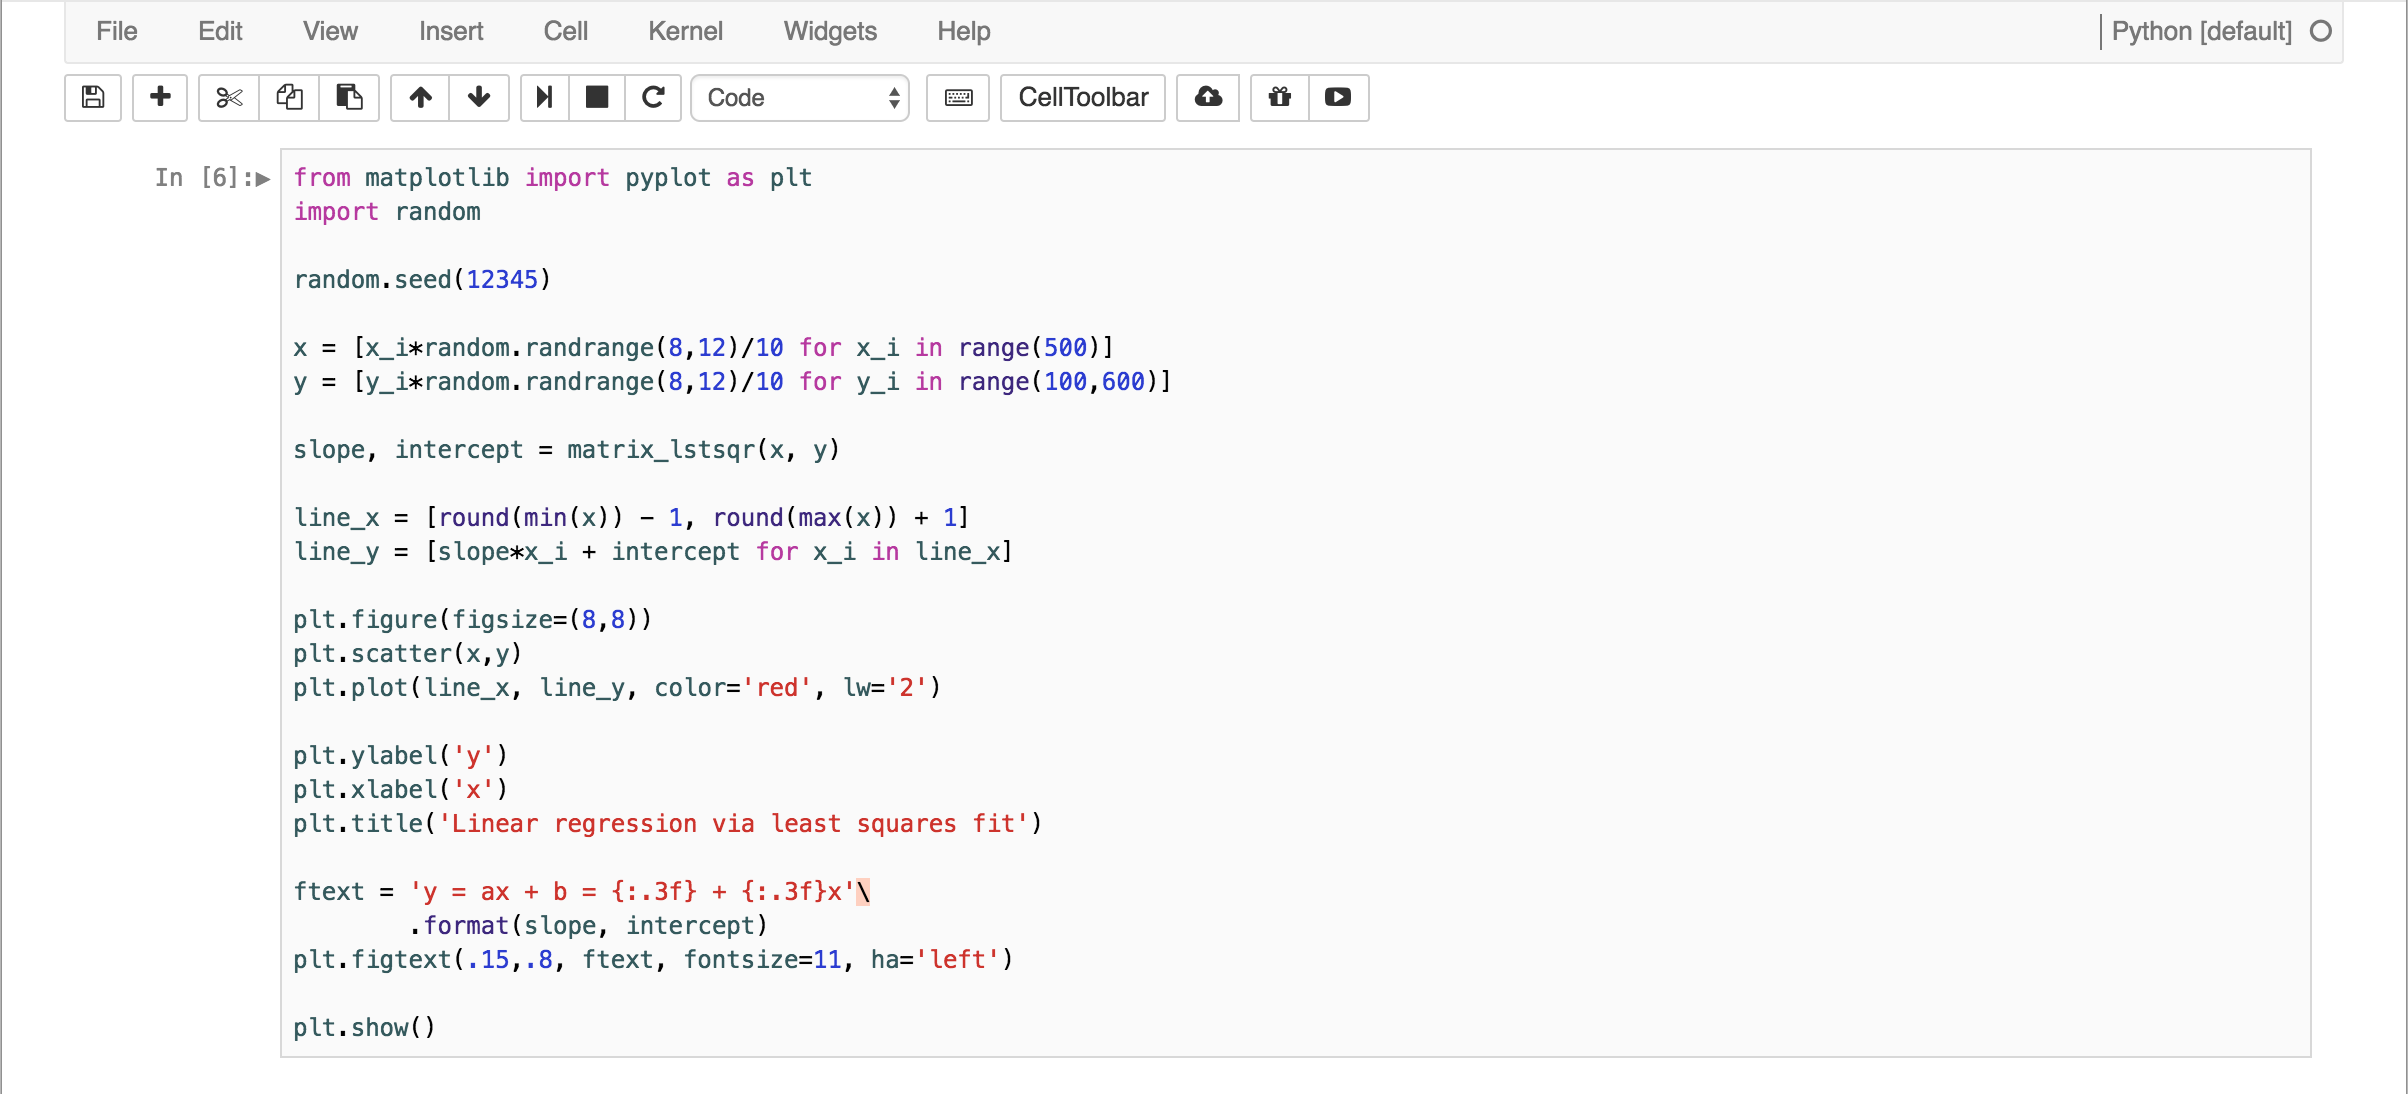
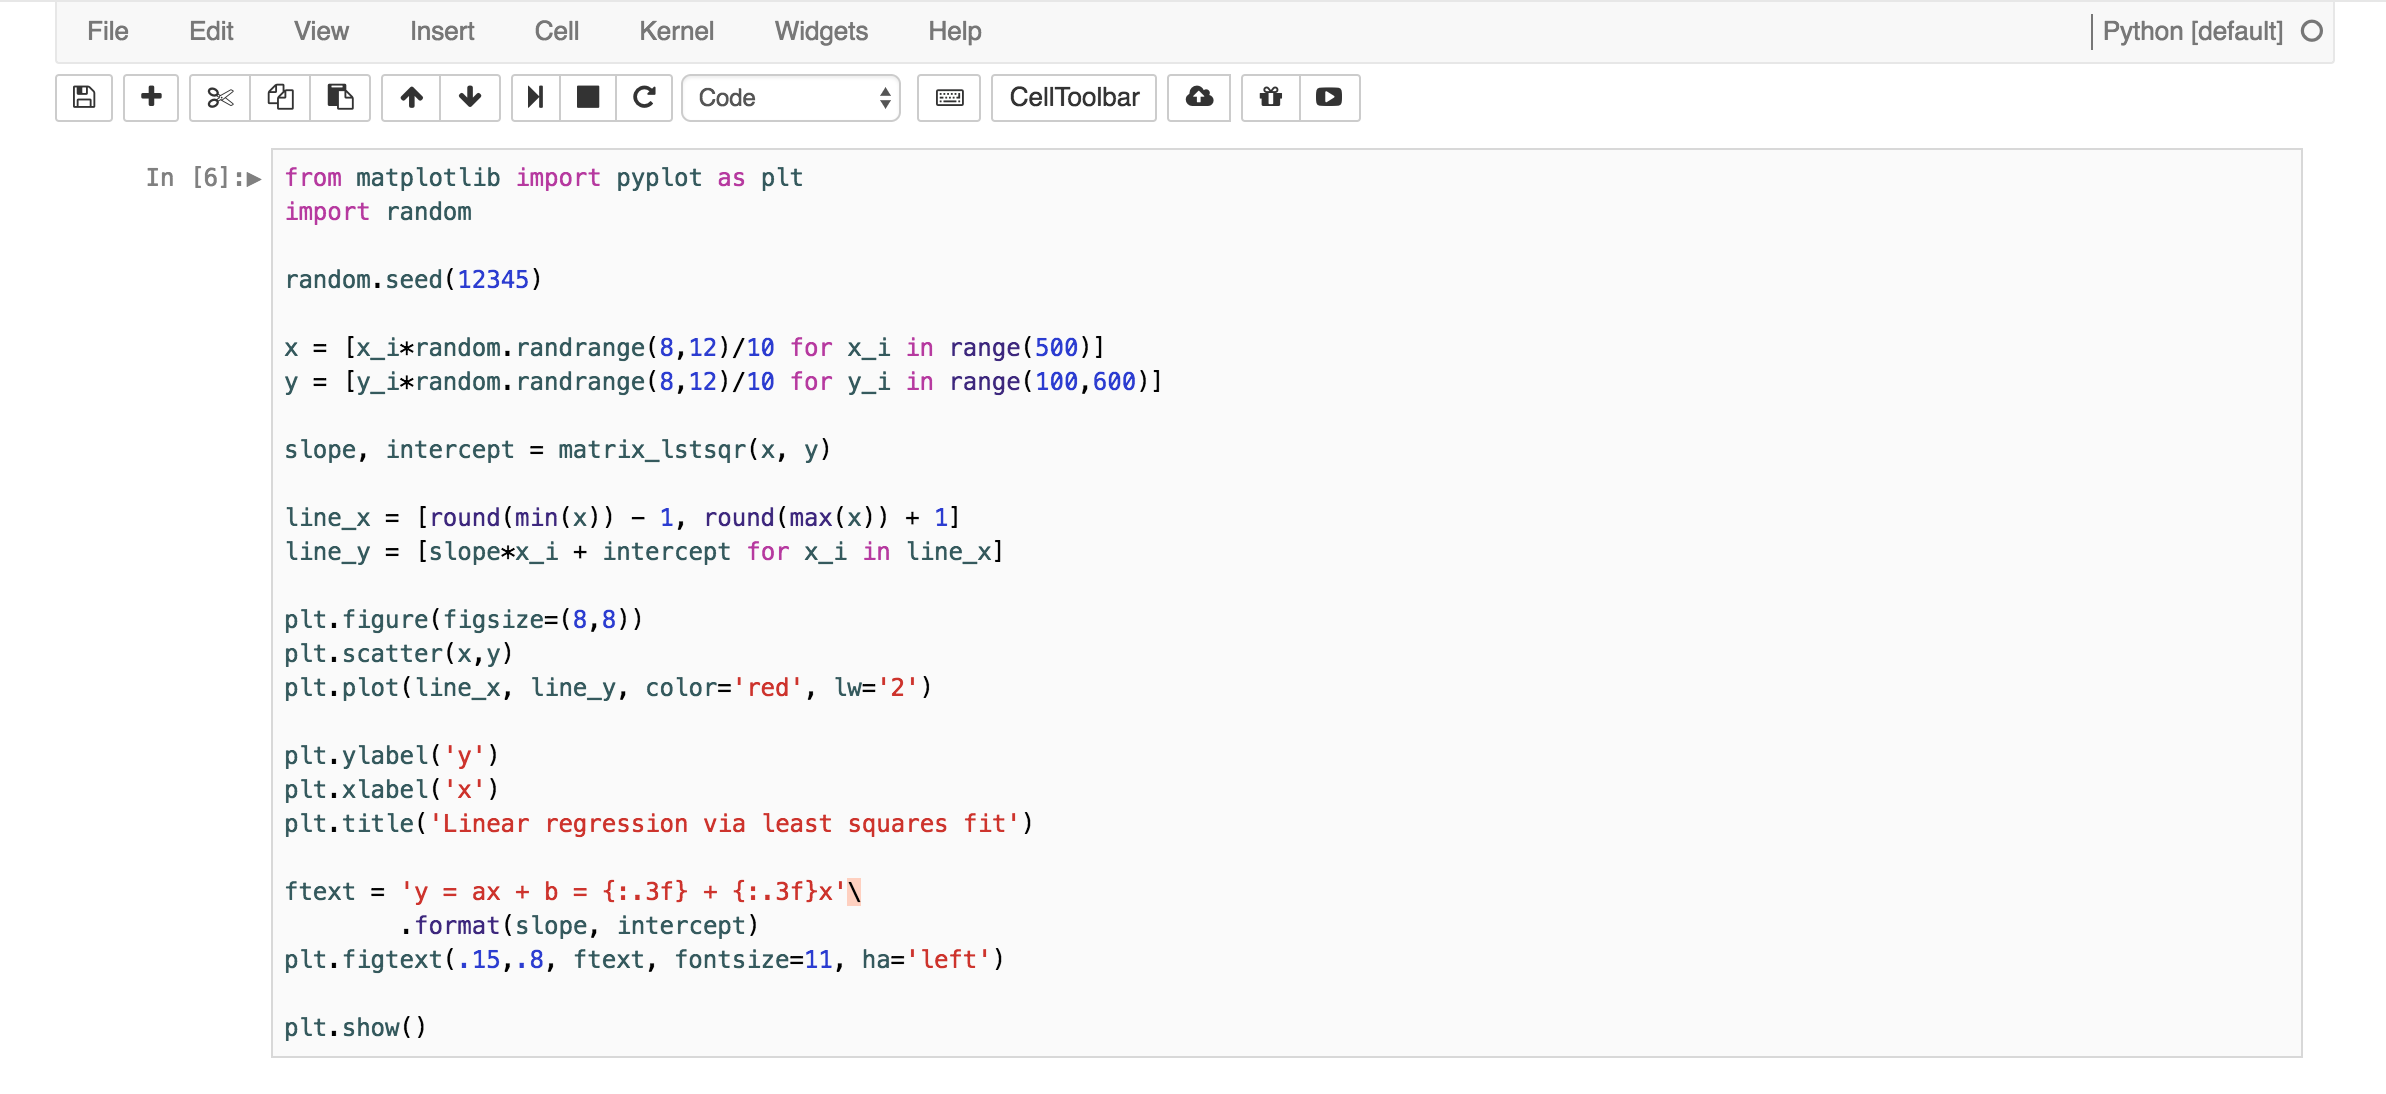
Provide description and update screenshot.

diff --git a/README.md b/README.md
@@ -1,5 +1,5 @@
 ### iPython-Notebook-Theme
-Personal theme that I use for iPython notebooks, modified version of `Neil Panchal`'s scheme.
+Personal theme that I use for iPython notebooks, modified version of `Neil Panchal`'s scheme (see fork origin). I've basically tried to replicate syntax highlighting in Xcode where possible — with a couple of other minor modifications.
 
 ![Notebook Design Screenshot](screenshot.png "Notebook Design")
 
